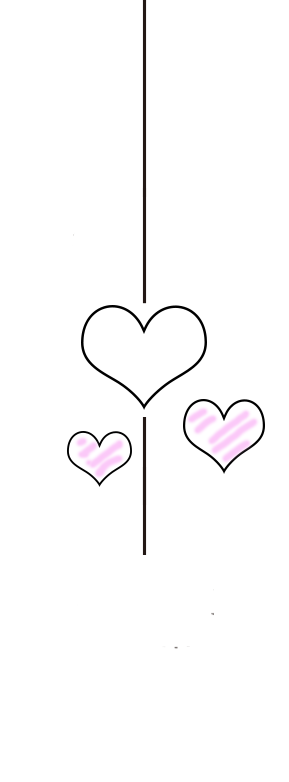
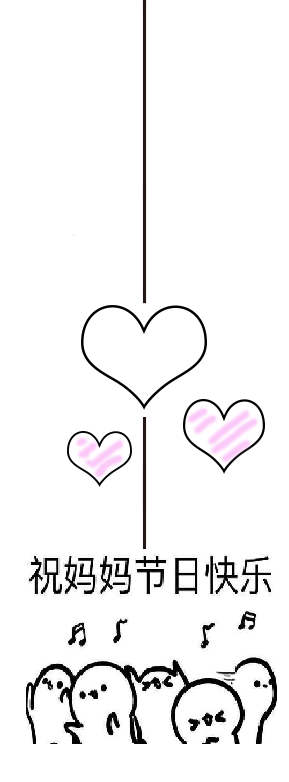
update

Changed region(s): [[0.0934, 0.7059, 0.9654, 0.9514], [0.3426, 0.89, 0.4048, 0.9514], [0.6851, 0.798, 0.7474, 0.8286]]

diff --git a/index.html b/index.html
@@ -5,7 +5,7 @@
   <meta name="viewport" content="width=device-width, initial-scale=1.0, minimum-scale=1.0, maximum-scale=1.0, user-scalable=no">
   <meta name="format-detection" content="telephone=no">
   <meta http-equiv="X-UA-Compatible" content="ie=edge, chrome=1">
-  <title>title</title>
+  <title>给妈妈的礼物</title>
   <link rel="stylesheet" href="css/style.css">
   <script src="js/script.js" defer></script>
 </head>
@@ -18,7 +18,7 @@
   <!-- Page1 -->
   <div class="page" id="page1">
     <div class="bg"></div>
-    <div class="p1_heart">不要点击<br/>屏幕</div>
+    <div class="p1_heart">点这里<br/>点我</div>
     <div class="p1_words"></div>
   </div>
   <!-- Page2 -->
@@ -38,8 +38,8 @@
       快<br/>
       乐
     </div>
-    <div class="p3_second"></div>
-    <div class="p3_first"></div>
+    <!-- <div class="p3_second"></div> -->
+    <!-- <div class="p3_first"></div> -->
     <div class="p3_blessing"></div>
   </div>
   <audio autoplay="true">

diff --git a/css/style.css b/css/style.css
@@ -93,7 +93,7 @@ body {
   right: 0;
   left: 0;
   margin: auto;
-  background: url(../images/p1_lantern3.png) no-repeat center bottom;
+  background: url(../images/p1_lantern5.png) no-repeat center bottom;
   background-size: 100%;
   width: 65vw;
   height: 100vh;
@@ -324,7 +324,7 @@ body {
   transform: translate(0, -100%);
 }
 #page3 > .bg {
-  background: url("../images/p3_bg1.jpg") no-repeat center center;
+  background: url("../images/flower.png") no-repeat center center;
   background-size: 100%;
 }
 #page3 > .p3_logo {
@@ -393,7 +393,7 @@ body {
   bottom: 10vh;
   margin: auto;
   border-radius: 50%;
-  background: url("../images/p3_blessing2.jpg") no-repeat center center;
+  background: url("../images/mom1.png") no-repeat center center;
   background-size: 100%;
   -webkit-animation: p3_blessing 2s linear infinite;
   animation: p3_blessing 2s linear infinite;
